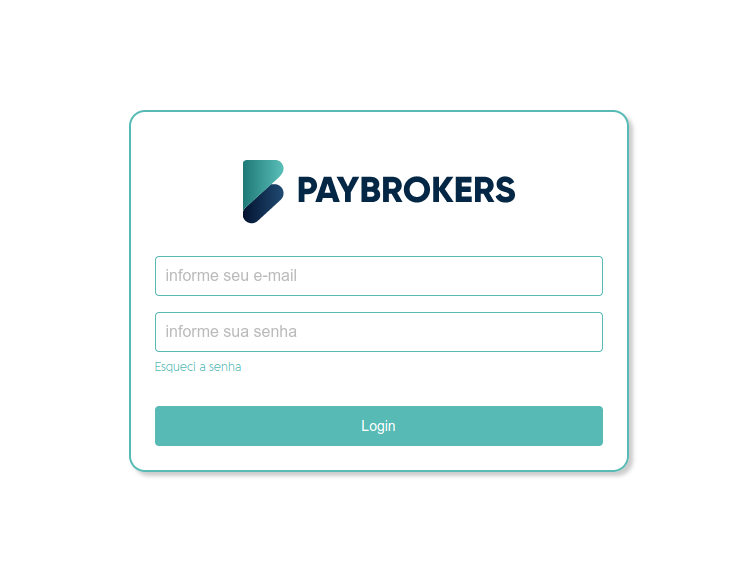
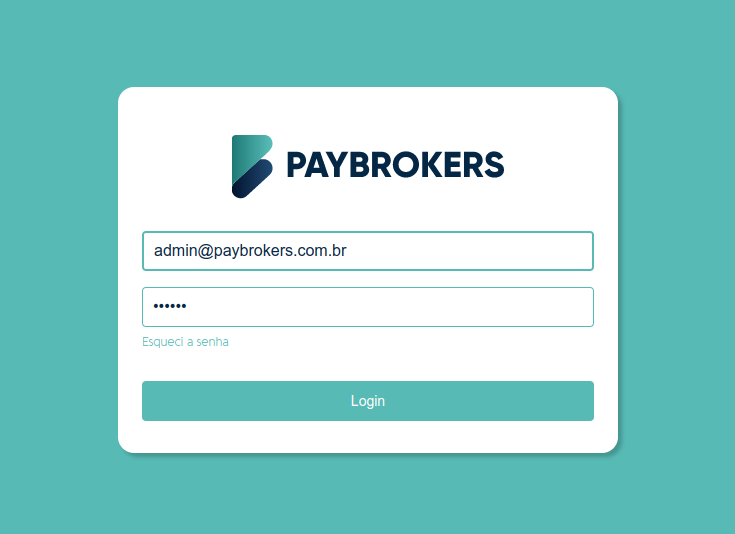
update README and minor changes

diff --git a/src/presentation/components/context/SignInForm/index.tsx b/src/presentation/components/context/SignInForm/index.tsx
@@ -1,3 +1,4 @@
+import { correctLogin } from '@main/config'
 import { logoUrl } from '@presentation/assets'
 import { useAuthContext } from '@presentation/contexts'
 import React from 'react'
@@ -22,14 +23,14 @@ const SignInForm: React.FC = () => {
       <CF.InputText
         name="email"
         placeholder="informe seu e-mail"
-        defaultValue="admin@paybrokers.com.br"
+        defaultValue={correctLogin.email} // for tests
         onChange={handleChangeLogin}
       ></CF.InputText>
       <CF.InputText
         name="password"
         type="password"
         placeholder="informe sua senha"
-        defaultValue="123456"
+        defaultValue={correctLogin.password} // for tests
         onChange={handleChangeLogin}
       ></CF.InputText>
       <CF.Link to="/sign-in">Esqueci a senha</CF.Link>

diff --git a/README.md b/README.md
@@ -1,7 +1,7 @@
 
 # Paybrokers Dashboard
 
-**Paybrokers Dashboard** is **ReactJS/Vite** App with **TypeScript**, **Styled-Components**, **ESLint** and **Tests** applying concepts from **Clean Architecture** and **Clean Code**
+**Paybrokers Dashboard** is **ReactJS/Vite** App with **TypeScript**, **Styled-Components**, **Material-UI**, **React Hook Form**, **ESLint** and **Tests** applying concepts from **Clean Architecture** and **Clean Code**
 
 ![Screen](./preview.png)
 
@@ -56,3 +56,12 @@
   passsword: '123456'
   
 ```
+
+---
+
+### Telas
+
+#### Dashboard
+![Screen](./preview2.png)
+#### Produtos
+![Screen](./preview3.png)
